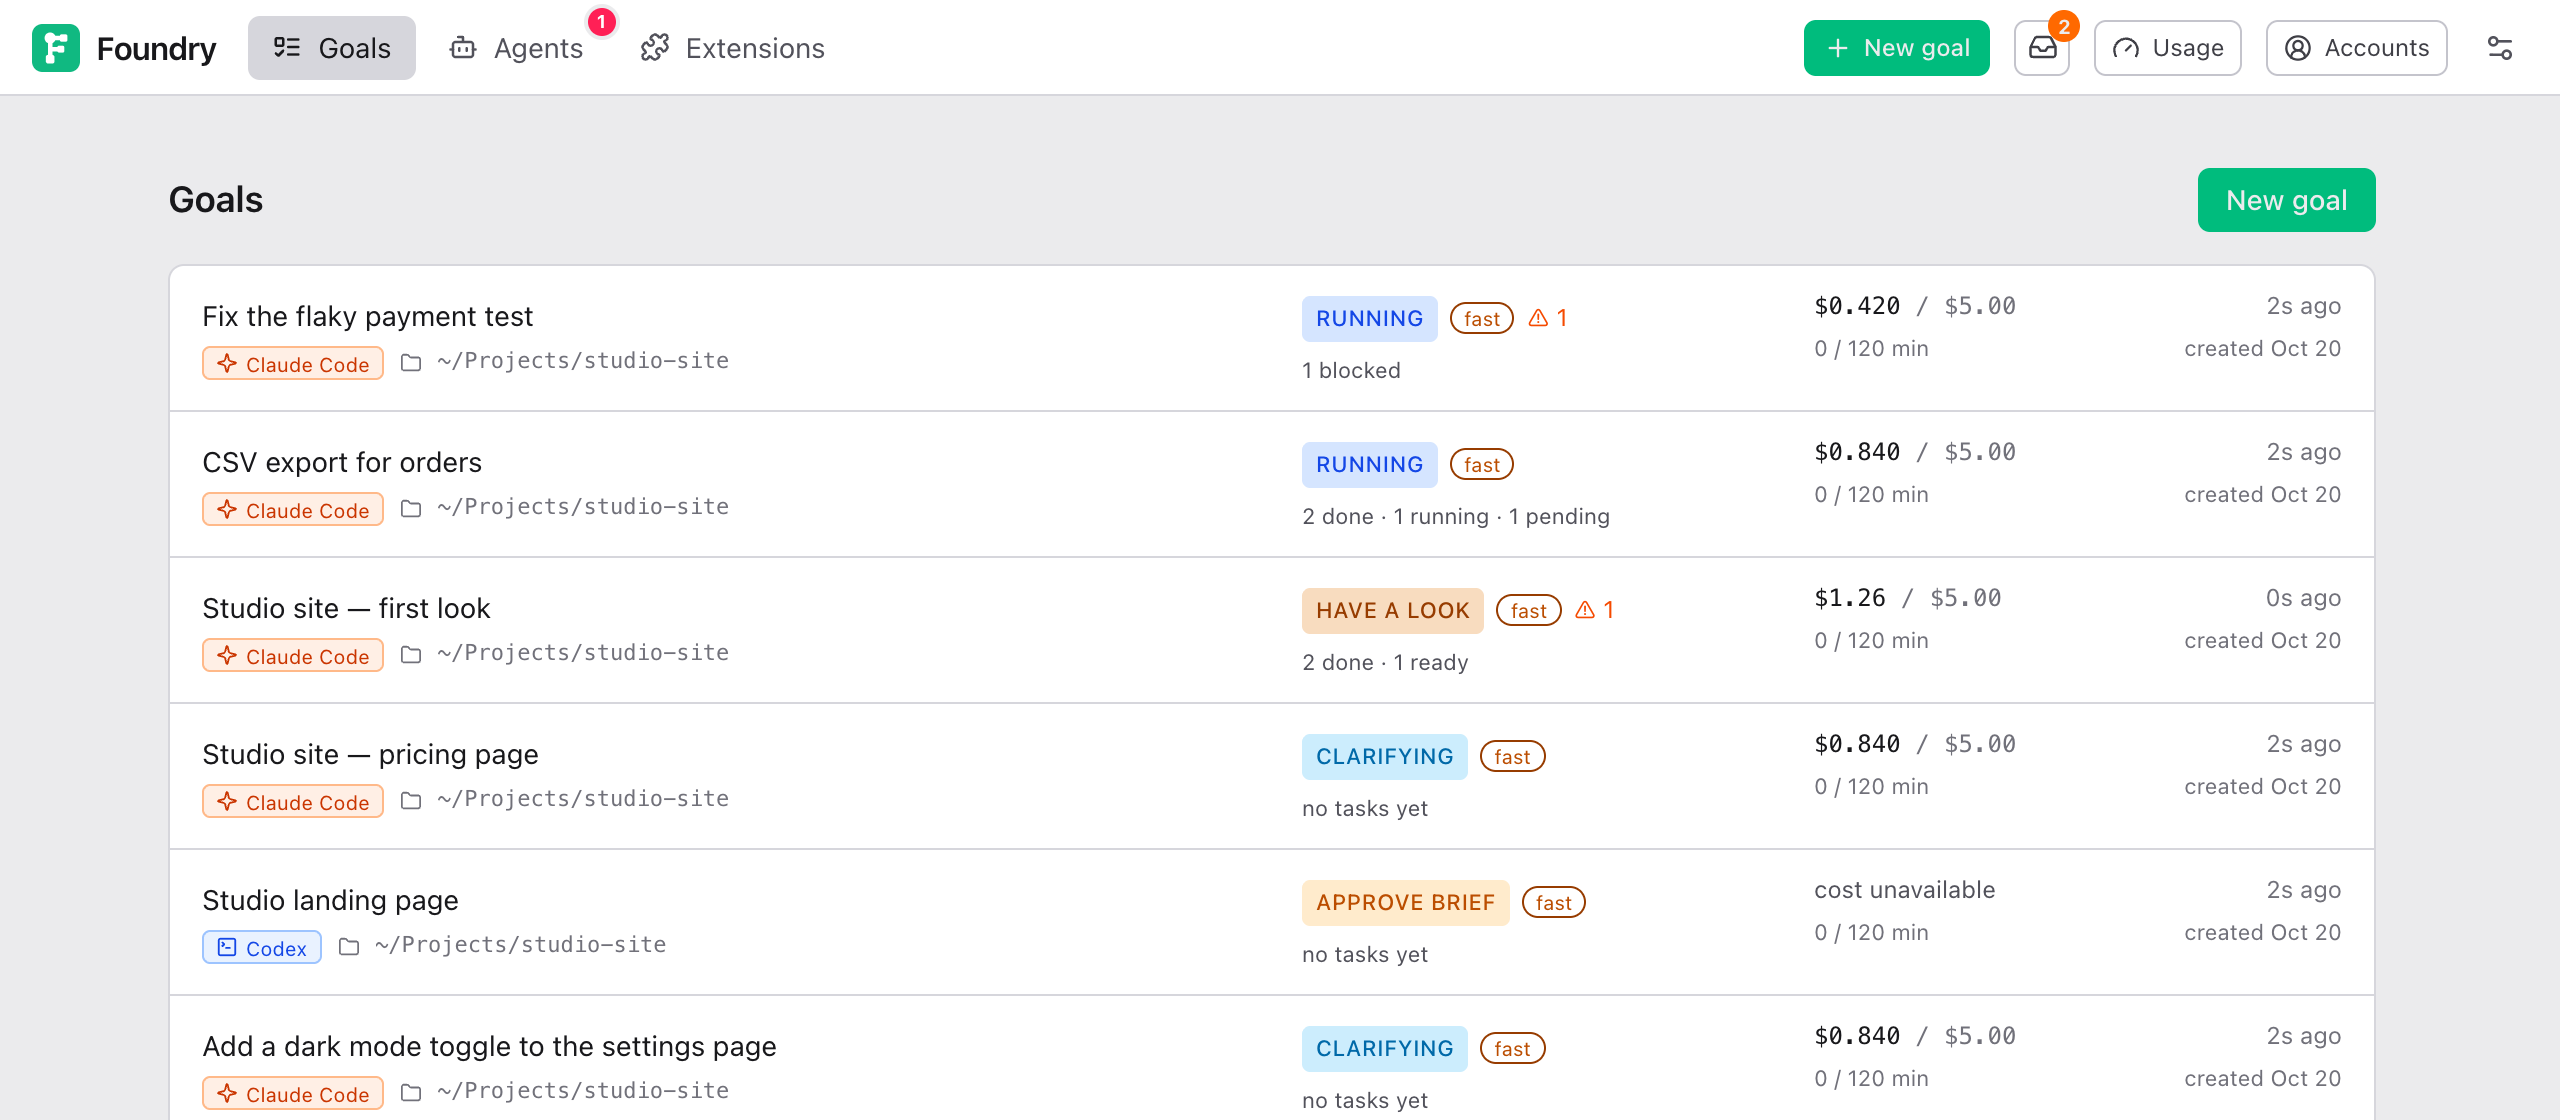
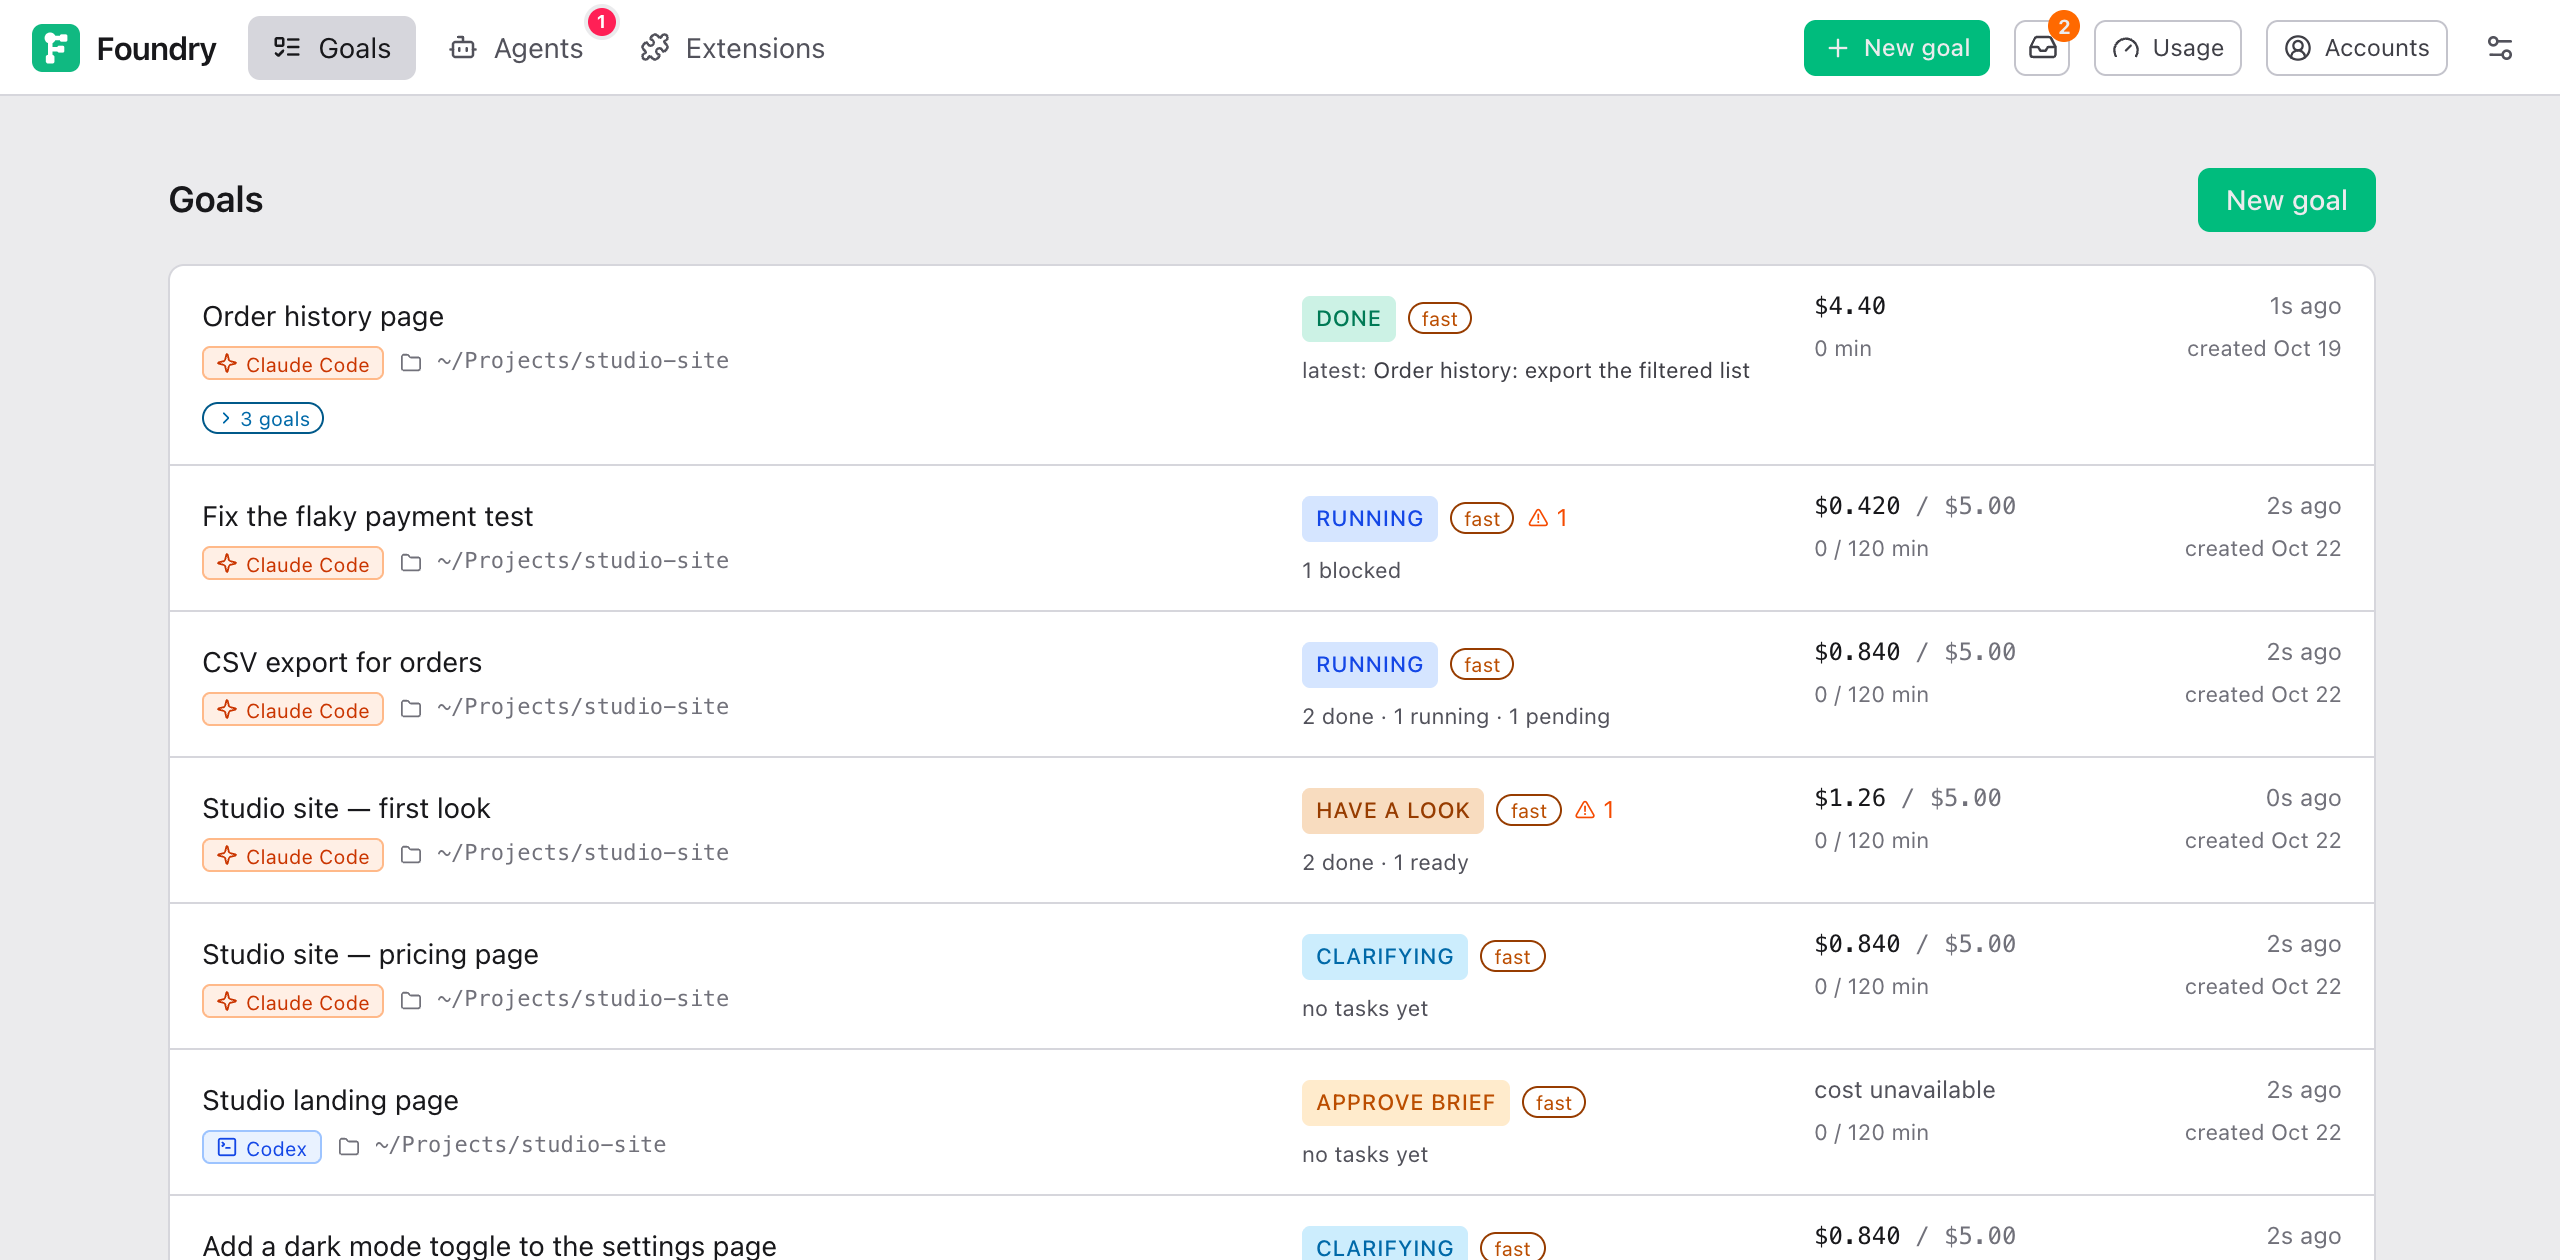
docs(guide): the Goals list folds a goal's follow-ups into one entry
The follow-up section said each follow-up has its own row with a "follows …" line; it now says how the group reads, opens and folds, in English and Chinese, the Delegated goals section points to it, and the list's screenshot shows a group of three.

diff --git a/docs/guide/getting-the-result.zh.md b/docs/guide/getting-the-result.zh.md
@@ -255,7 +255,7 @@ Codex 的 follow-up 会保留明确指定的全角色模型覆盖，即使 Setti
 - **从哪里开始：** 之前的工作已经在你的基础分支上时，就从基础分支开始；否则从之前那个 goal 的分支开始。这种情况下，Delivery 标签会说明之前那个 goal 的改动会随着这个 goal 的 pull request 一起交付。pull request 的目标仍然是你的基础分支。
 - **附件和风格**（除非你取消了勾选）：附件的副本，以及选定的风格方向和它的参考样图，在新的 Brief 上已经选好。
 
-之后 goal 页面会显示 **Follows: …**，之前那个 goal 上会显示 **Followed by: …**，都是链接。如果之前的 goal 被删除了，后续 goal 会显示 "follows a deleted goal" 和它的标题。在 goal 列表里，后续 goal 的标题下面有一小行 "↳ follows …"。
+之后 goal 页面会显示 **Follows: …**，之前那个 goal 上会显示 **Followed by: …**，都是链接。如果之前的 goal 被删除了，后续 goal 会显示 "follows a deleted goal" 和它的标题。在 goal 列表里，一个 goal 和它的后续 goal 合成一项，像 Agents 页面的分组那样折叠：显示第一个 goal 的标题和一个写着共几个 goal 的小标签、最新那个 goal 的状态（**latest: …**），以及所有这些 goal 的费用和时间。点它就展开其中每个 goal 的行，从早到晚排列，后续 goal 前面标着 ↳。其中有 goal 还在进行时它会自动展开；你折叠或展开过它，它会记住；列表上方的 **expand all** / **collapse all** 可以一次展开或折叠所有分组。之前的 goal 被删除的后续 goal 独立显示，标题下面有一小行 "↳ follows …"。
 
 在命令行里：`foundry goal new "<prompt>" --follows <goal id>`。
 

diff --git a/docs/guide/getting-the-result.md b/docs/guide/getting-the-result.md
@@ -255,7 +255,7 @@ What the follow-up gets from the earlier goal:
 - **Where it starts:** from your base branch when the earlier work is already there, otherwise from the earlier goal's branch. In that case the Delivery tab says that the earlier goal's changes go along in this goal's pull request. The pull request still targets your base branch.
 - **Attachments and style,** unless you unticked them: copies of the attachments, and the chosen style direction with its reference sample, already picked on the new Brief.
 
-The goal page then shows **Follows: …** and, on the earlier goal, **Followed by: …**, as links. If the earlier goal was deleted, the follow-up says "follows a deleted goal" with its title. In the goals list, a follow-up has a small "↳ follows …" line under its title.
+The goal page then shows **Follows: …** and, on the earlier goal, **Followed by: …**, as links. If the earlier goal was deleted, the follow-up says "follows a deleted goal" with its title. In the goals list, a goal and its follow-ups are one entry, folded like a group on the Agents page: the first goal's title with a chip saying how many goals it holds, the newest goal's state (**latest: …**), and the spend and time of all of them. Click it to open the rows of every goal in it, oldest first, each follow-up marked ↳. It opens by itself while one of its goals is under way, remembers when you fold or open it, and **expand all** / **collapse all** above the list fold every group at once. A follow-up whose earlier goal was deleted stays on its own, with a small "↳ follows …" line under its title.
 
 From the command line: `foundry goal new "<prompt>" --follows <goal id>`.
 

diff --git a/docs/guide/while-it-runs.zh.md b/docs/guide/while-it-runs.zh.md
@@ -97,7 +97,7 @@ kind 是 **goal** 的任务不由 worker 来做：由它自己的一个*委派 g
 
 委派 goal 落地之后，planner 会读它交付了什么，并可能微调之后尚未开始的任务：它们的 spec、起始文件和交付物，绝不改计划的结构或检查。被微调过的任务会在 spec 下面写 **Touched up after a step landed** 和原因；Activity 标签里也有这一行。
 
-goals 列表把委派 goal 折叠在它的主 goal 下面：主 goal 下的一行 **▸ 2 delegated goals** 可以展开它们，缩进显示。委派 goal 自己的页面在标题下写着 **Delegated from: …**（链接到主 goal 的那个任务），主 goal 的页面列出它的 **Delegated goals**。如果主 goal 被删除，委派 goal 会独立留在列表里，并写明它曾属于谁。
+goals 列表把委派 goal 折叠在它的主 goal 下面：主 goal 下的一行 **▸ 2 delegated goals** 可以展开它们，缩进显示。委派 goal 自己的页面在标题下写着 **Delegated from: …**（链接到主 goal 的那个任务），主 goal 的页面列出它的 **Delegated goals**。如果主 goal 被删除，委派 goal 会独立留在列表里，并写明它曾属于谁。一个 goal 和它的后续 goal 在同一个列表里合成一项折叠显示（见 [Continue with a follow-up](./getting-the-result.zh.md#continue-with-a-follow-up)）。
 
 ### 任务内部
 

diff --git a/docs/guide/while-it-runs.md b/docs/guide/while-it-runs.md
@@ -97,7 +97,7 @@ While the delegated goal needs you — an interview question, a Brief to approve
 
 Once a delegated goal has landed, the planner reads what it delivered and may touch up the tasks after it that have not started yet: their spec, start files and deliverables, never the plan's shape or its checks. A task touched up says **Touched up after a step landed** under its spec, with the reason; the Activity tab has the line too.
 
-The goals list folds delegated goals under their main goal: a line **▸ 2 delegated goals** under the main goal opens them, indented. A delegated goal's own page says **Delegated from: …** under its title (a link to the main goal's task), and the main goal's page lists its **Delegated goals**. If the main goal is deleted, the delegated goal stays in the list on its own and says whose it was.
+The goals list folds delegated goals under their main goal: a line **▸ 2 delegated goals** under the main goal opens them, indented. A delegated goal's own page says **Delegated from: …** under its title (a link to the main goal's task), and the main goal's page lists its **Delegated goals**. If the main goal is deleted, the delegated goal stays in the list on its own and says whose it was. A goal and its follow-ups fold into one entry in the same list (see [Continue with a follow-up](./getting-the-result.md#continue-with-a-follow-up)).
 
 ### Inside a task
 
